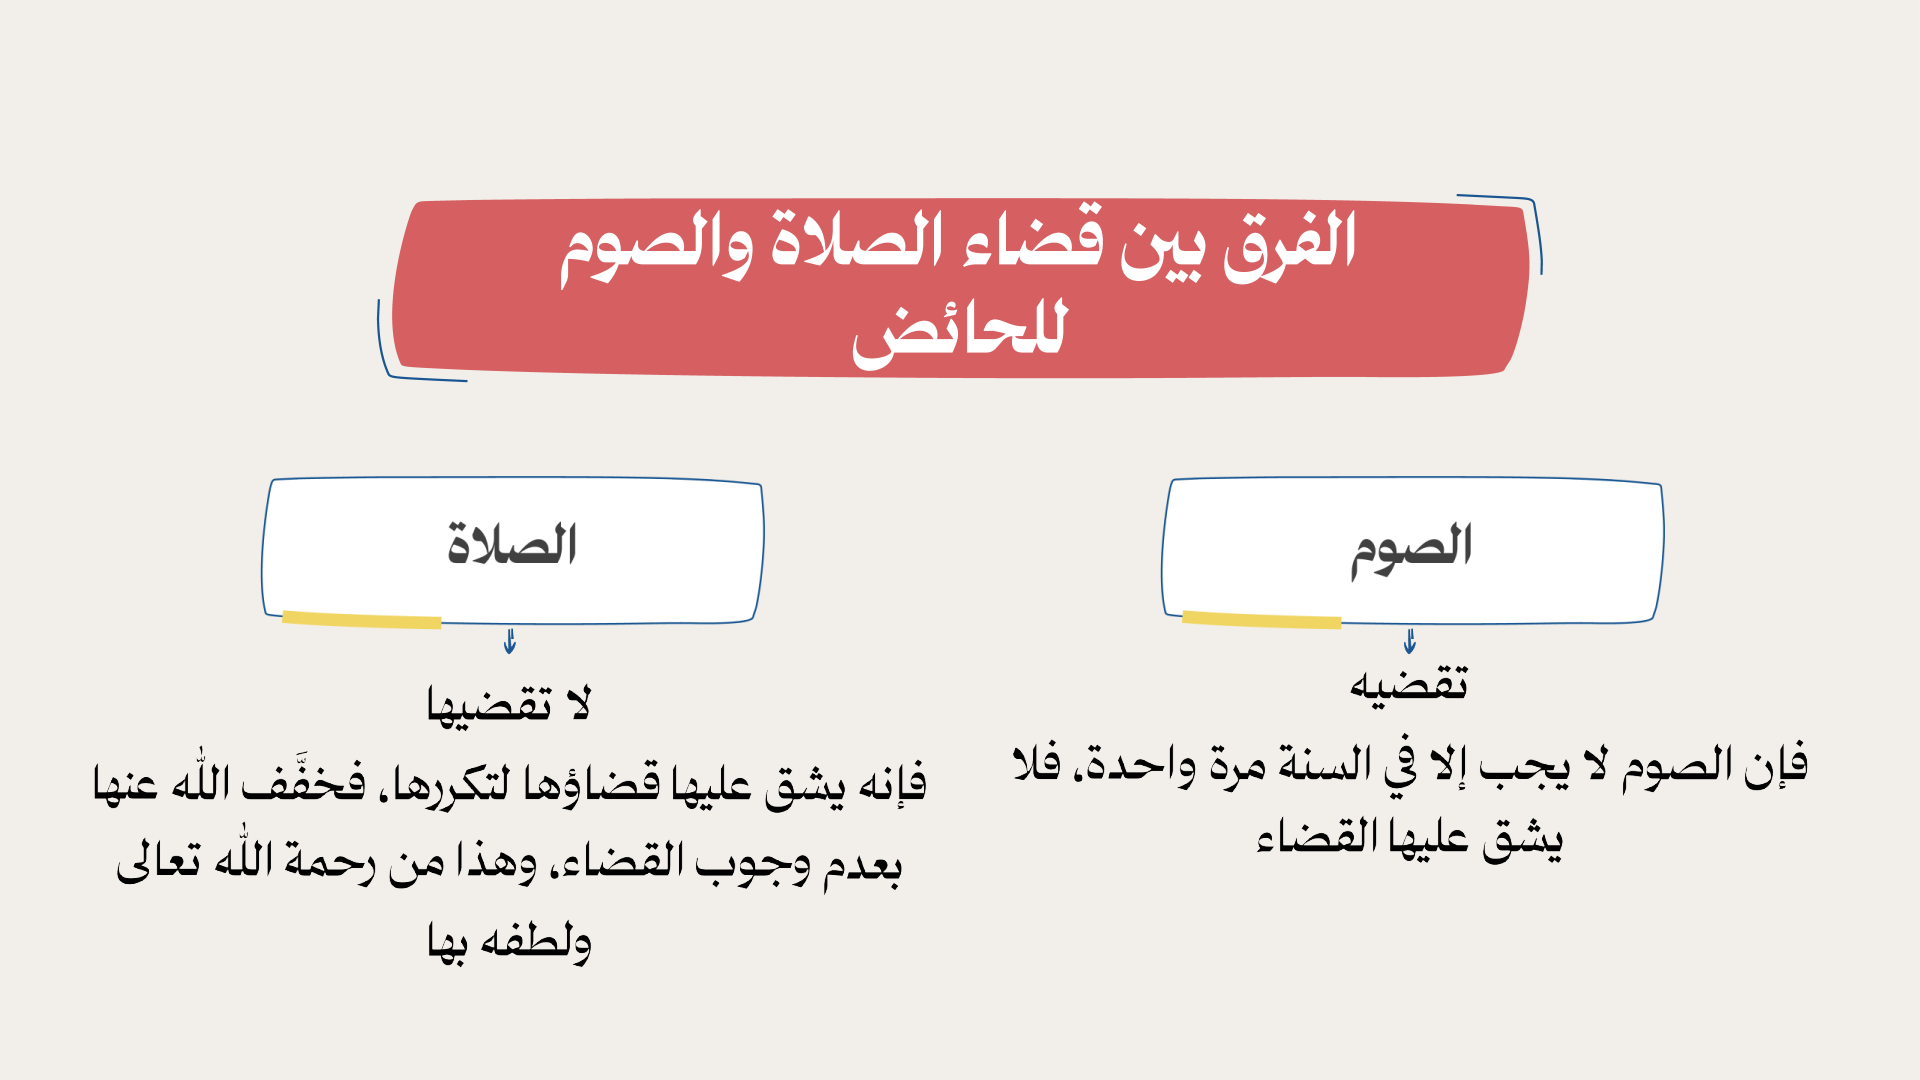
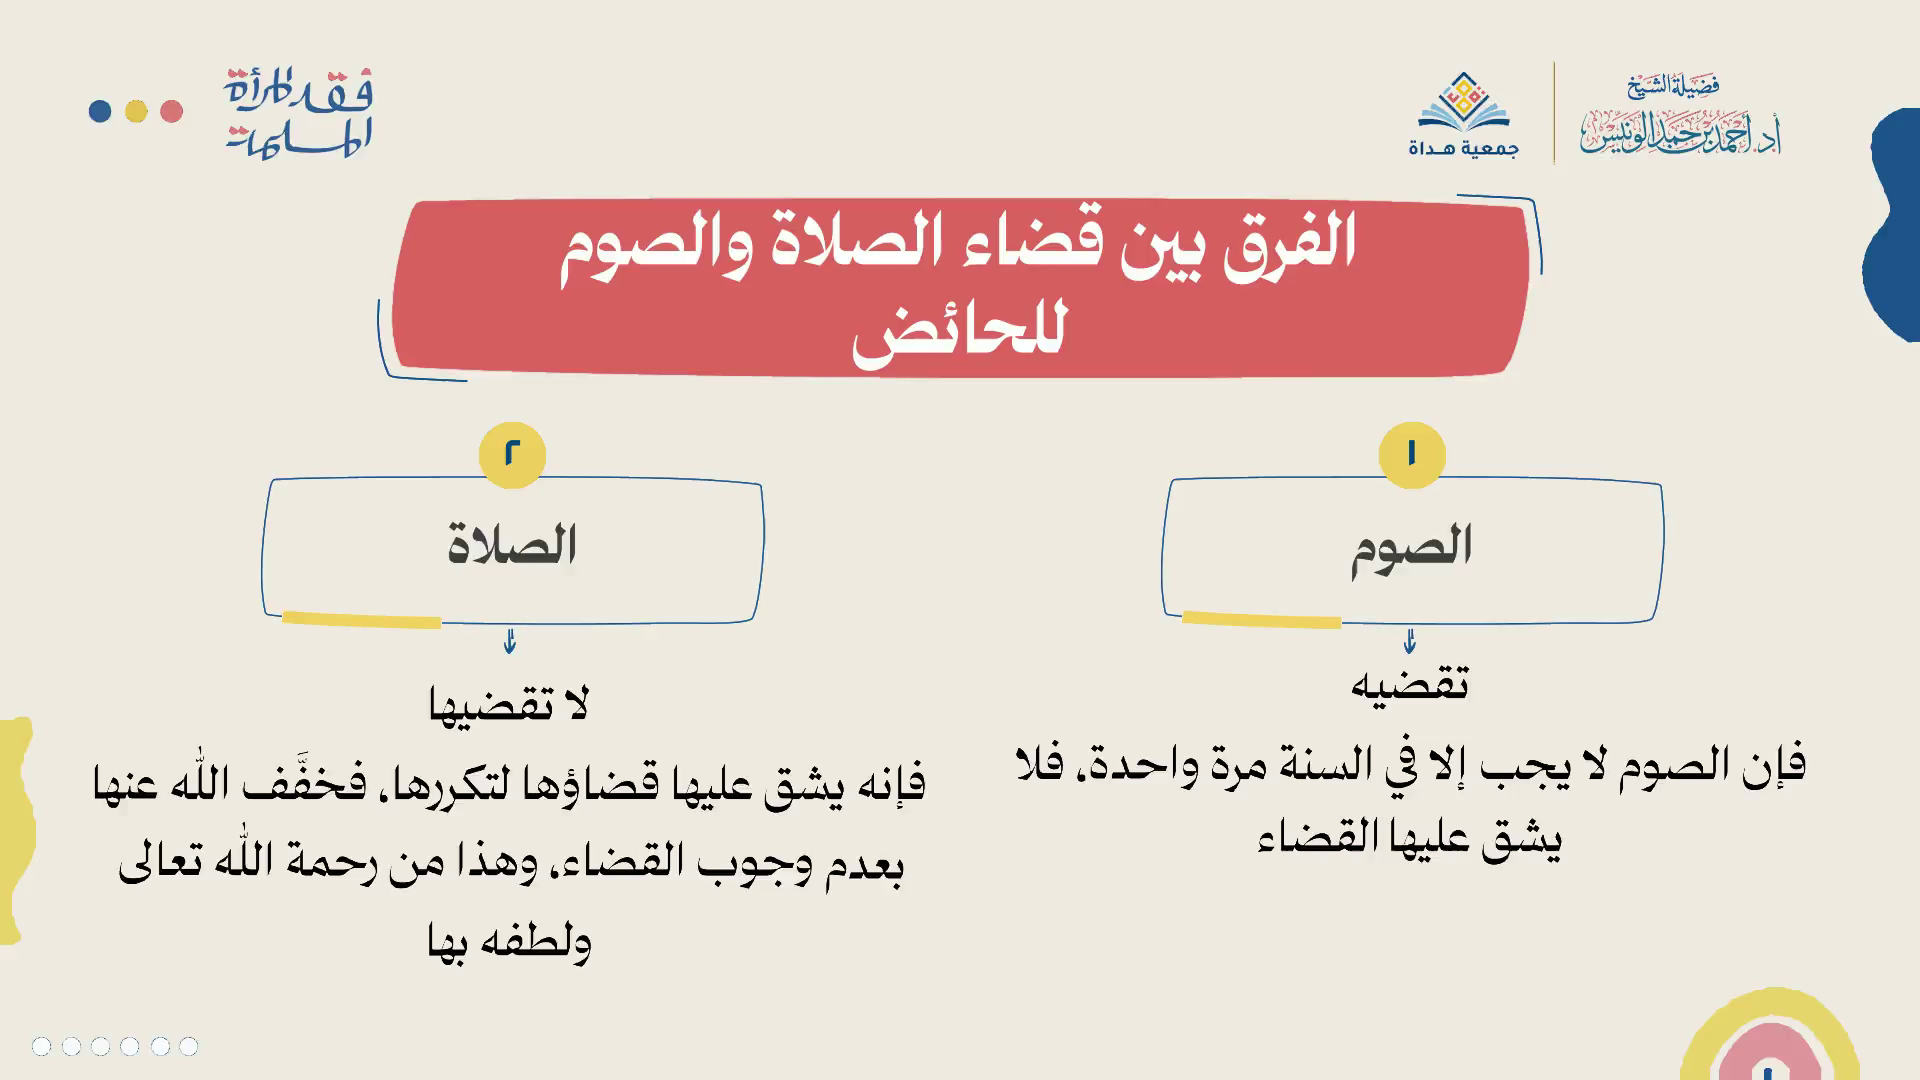
دمج خريطتي الطواف وخريطتي مس المصحف؛ إصلاح نسبة الحركات بين الكلمات والمسافات الأصلية داخل السطر
Claude-Session: https://claude.ai/code/session_01Ht77rFZz1UZjuKqtVRVsYj

diff --git a/tools/render2/compose2.py b/tools/render2/compose2.py
@@ -41,10 +41,13 @@ def paste(canvas, img, x, y, s, bg, opaque=False, mask=None):
 def wrap(wl, s, width, bg, gap=17):
     """يلف الكلمات (بحركاتها) في أسطر لا يتجاوز عرضها width، محاذاةً على أعلى جسم السطر."""
     items = []
-    for im, a, (X0, Y0), li, ctop in wl:
+    for k, (im, a, (X0, Y0), li, ctop) in enumerate(wl):
         ims = cv2.resize(im, None, fx=s, fy=s, interpolation=cv2.INTER_AREA)
         als = cv2.resize(a, None, fx=s, fy=s, interpolation=cv2.INTER_AREA)
-        items.append((ims, als, (Y0 - ctop) * s))
+        # المسافة الأصلية إلى الكلمة السابقة (يمينها) إن كانتا في سطر واحد من الشريحة
+        og = None
+        if k and wl[k - 1][3] == li: og = (wl[k - 1][2][0] - (X0 + a.shape[1])) * s
+        items.append((ims, als, (Y0 - ctop) * s, og))
     g = int(gap * s)
     # سطر قصير في الأصل (كالحكم «تقضيه») نهايته مقصودة: يبقى سطراً مستقلاً
     lw = {}
@@ -55,9 +58,9 @@ def wrap(wl, s, width, bg, gap=17):
     lines, cur, cw = [], [], 0
     prev_li = None
     for it, (_, _, _, li, _) in zip(items, wl):
-        w = it[0].shape[1]
-        if cur and (cw + g + w > width or (prev_li in hard and li != prev_li)): lines.append(cur); cur, cw = [], 0
-        cw += (g if cur else 0) + w; cur.append(it); prev_li = li
+        w = it[0].shape[1]; gi = it[3] if it[3] is not None else g
+        if cur and (cw + gi + w > width or (prev_li in hard and li != prev_li)): lines.append(cur); cur, cw = [], 0
+        cw += (gi if cur else 0) + w; cur.append(it); prev_li = li
     if cur: lines.append(cur)
     top = min(min(it[2] for it in ln) for ln in lines)
     step = int(max(it[0].shape[0] + it[2] for ln in lines for it in ln) - top + 4 * s)
@@ -65,17 +68,18 @@ def wrap(wl, s, width, bg, gap=17):
     out = np.full((hgt, width, 3), bg, np.uint8); oa = np.zeros((hgt, width), np.float32)
     line_masks = []
     for i, ln in enumerate(lines):
-        tw = sum(it[0].shape[1] for it in ln) + g * (len(ln) - 1)
-        x = (width + tw) // 2
+        gaps = [0] + [(it[3] if it[3] is not None else g) for it in ln[1:]]
+        tw = sum(it[0].shape[1] for it in ln) + sum(gaps)
+        x = (width + tw) / 2
         lm = np.zeros((hgt, width), np.float32)
-        for ims, als, dy in ln:
-            x -= ims.shape[1]
+        for j, (ims, als, dy, _) in enumerate(ln):
+            x -= gaps[j]
+            x -= ims.shape[1]; x = int(round(x))
             y = int(round(i * step + dy - top))
             h, w = als.shape
             reg = (slice(y, y + h), slice(x, x + w))
             out[reg] = (out[reg] * (1 - als[..., None]) + ims * als[..., None]).astype(np.uint8)
             oa[reg] = np.maximum(oa[reg], als); lm[reg] = np.maximum(lm[reg], als)
-            x -= g
         line_masks.append(lm)
     return out, oa, line_masks
 
@@ -153,3 +157,7 @@ if __name__ == '__main__':
     sb, sv = 0.75, 0.75
     # الفرق بين قضاء الصلاة والصوم: الصوم (١) يميناً، والصلاة (٢) يساراً، بترتيب الكلام في الدرس
     print(build('farq', 52, [(53, R, 470, sb, sv, 840), (52, L, 470, sb, sv, 840)], out))
+    # الطواف للحائض: الحكم (١) يميناً، والدليل (٢) يساراً
+    print(build('tawaf', 54, [(54, R, 470, sb, sv, 840), (55, L, 470, sb, sv, 840)], out))
+    # مس المصحف للحائض والنفساء: مس المصحف (١) يميناً، والقراءة من غير مس (٢) يساراً
+    print(build('mushaf', 56, [(56, R, 470, sb, sv, 840), (57, L, 470, sb, sv, 840)], out))

diff --git a/tools/render2/words.py b/tools/render2/words.py
@@ -57,6 +57,8 @@ def words(F, y0, y1, gap=14):
     for li, L in enumerate(lines):
         bigs = L['m']
         core_line_top = int(np.median([st[i, 1] for i in L['m'] if i in big]))
+        core_t_l = core_line_top; core_b_l = float(np.median([st[i, 1] + st[i, 3] for i in L['m'] if i in big]))
+        core_h_l = core_b_l - core_t_l
         col = np.zeros(F.shape[1], bool)
         for i in bigs: col[st[i, 0]:st[i, 0] + st[i, 2]] = True
         # كلمات: فراغات أفقية بين المكوّنات الكبيرة لا تقل عن gap
@@ -78,10 +80,13 @@ def words(F, y0, y1, gap=14):
             cx = st[i, 0] + st[i, 2] / 2                    # الكلمة داخل السطر بموضعها الأفقي
             inside = [k for k, s in enumerate(segs) if s[0] - 3 <= cx <= s[1] + 3]
             if len(inside) == 1: groups[inside[0]].append(i); continue
-            # بين كلمتين: تتبع الكلمة التي على يمينها (السابقة في القراءة)، كالفاصلة وضمة آخر الكلمة
+            # بين كلمتين: الحركة (فوق السطر أو تحته) تتبع أقرب كلمة أفقياً،
+            # وعلامة الترقيم على السطر (كالفاصلة) تتبع الكلمة التي على يمينها (السابقة في القراءة)
+            cy = st[i, 1] + st[i, 3] / 2
+            on_line = core_t_l + 0.35 * core_h_l <= cy <= core_b_l + 4
             right = [(s[0] - cx, k) for k, s in enumerate(segs) if s[0] >= cx]
-            if right: groups[min(right)[1]].append(i)
-            else: groups[int(np.argmin([abs(cx - s[1]) for s in segs]))].append(i)
+            if on_line and right: groups[min(right)[1]].append(i)
+            else: groups[int(np.argmin([min(abs(cx - s[0]), abs(cx - s[1])) for s in segs]))].append(i)
         for k in reversed(range(len(segs))):          # من اليمين
             g = groups[k]
             if not g: continue

diff --git a/tools/render2/preview3.py b/tools/render2/preview3.py
@@ -1,0 +1,14 @@
+import sys, cv2, numpy as np
+sys.path.insert(0, '.')
+import render2 as R
+S = R.S
+outs = []
+for name in ('farq', 'tawaf', 'mushaf'):
+    F1 = cv2.imread(f'{S}/r2/steps/{name}_1.png'); F2 = cv2.imread(f'{S}/r2/steps/{name}_2.png')
+    bg = np.median(F1[:40, :40].reshape(-1, 3), 0).astype(np.float32)
+    hd = R.Header(F1, bg); it = [R.Item(F1, bg, 1), R.Item(F2, bg, 2)]
+    tl = R.Timeline(0.0); R.plan_group(tl, hd, it, [1.0, 15.0], 60.0, next_exists=False)
+    t_end = tl.t + 0.5
+    R.render(tl.ev, t_end, t_end + 1 / 30, f'{S}/r2/p_{name}.mp4')
+    outs.append(f'{S}/r2/p_{name}.mp4')
+print(outs)
